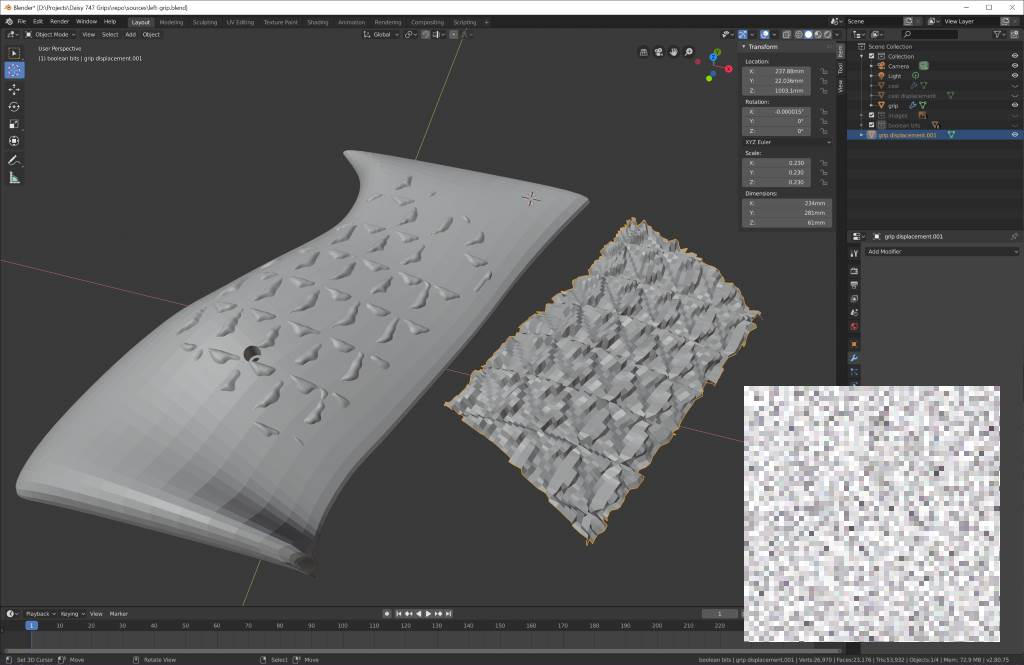
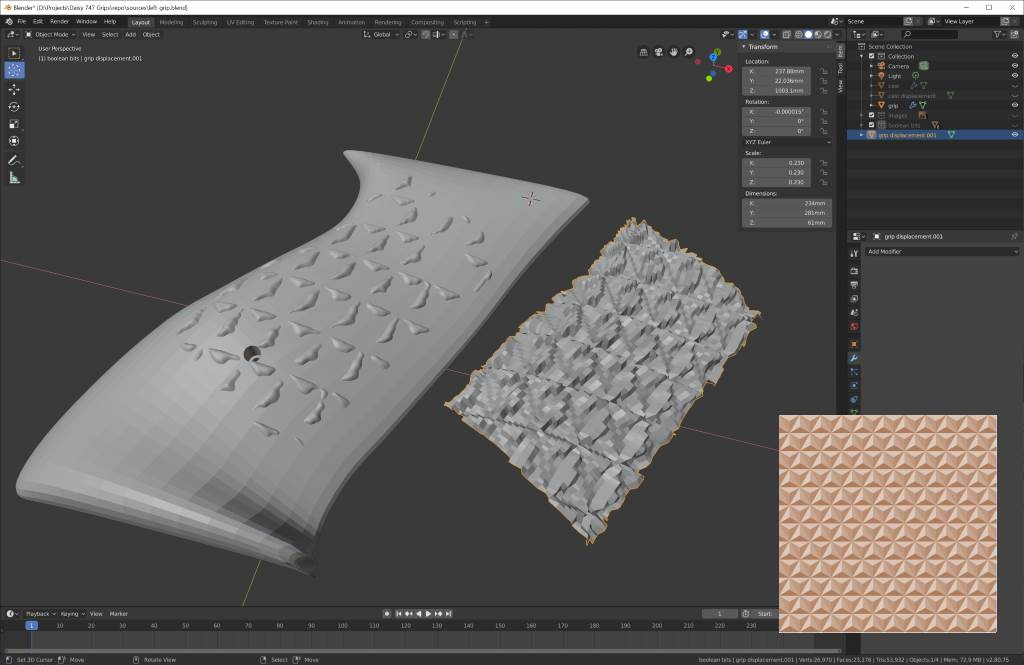
Noise was for sculpting, triangles for displacement, idiot.

Changed region(s): [[0.7188, 0.5714, 1.0, 0.9925]]

diff --git a/README.md b/README.md
@@ -43,12 +43,12 @@ I feel that I should point out that I have rarely done anything more complicated
 
 So it is with much remorse that I explain how I got the "stipple" on the grip:
 
-  * made a noise texture in [Paint.NET](https://www.getpaint.net/), then *pixelated* it
+  * made a procedural triangle texture
   * duplicated the grip
     * applied all the modifiers
     * cut out just the bit I wanted to have stippling on
     * added a displacement modifier
-    * used the noise texture for the displacement
+    * used the triangle texture for the displacement
     * added a subdivision modifier
   * slowly moved the duplicated bits down until they looked "right".
 
